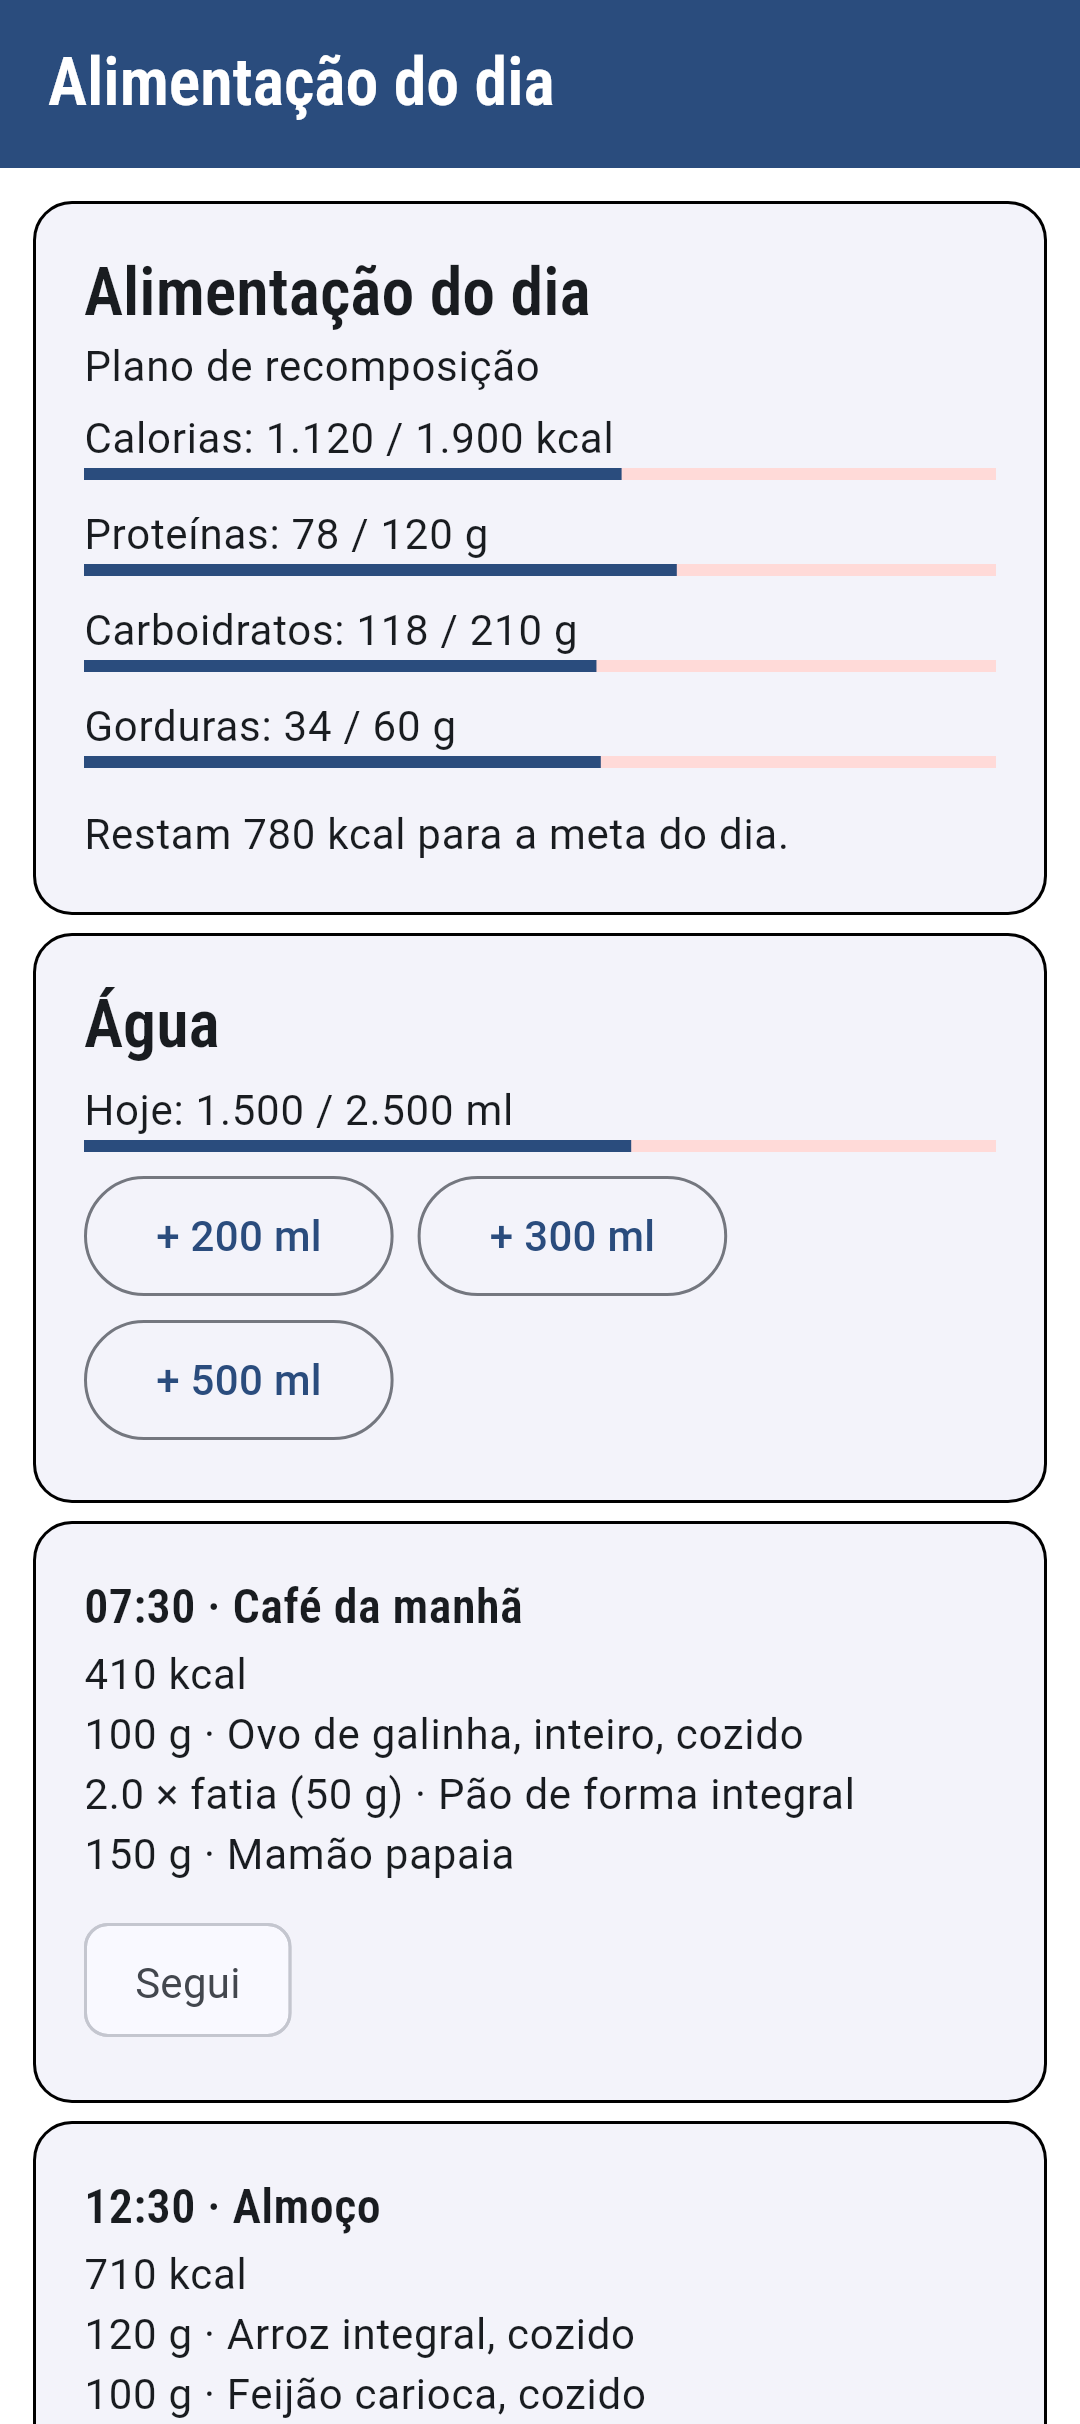
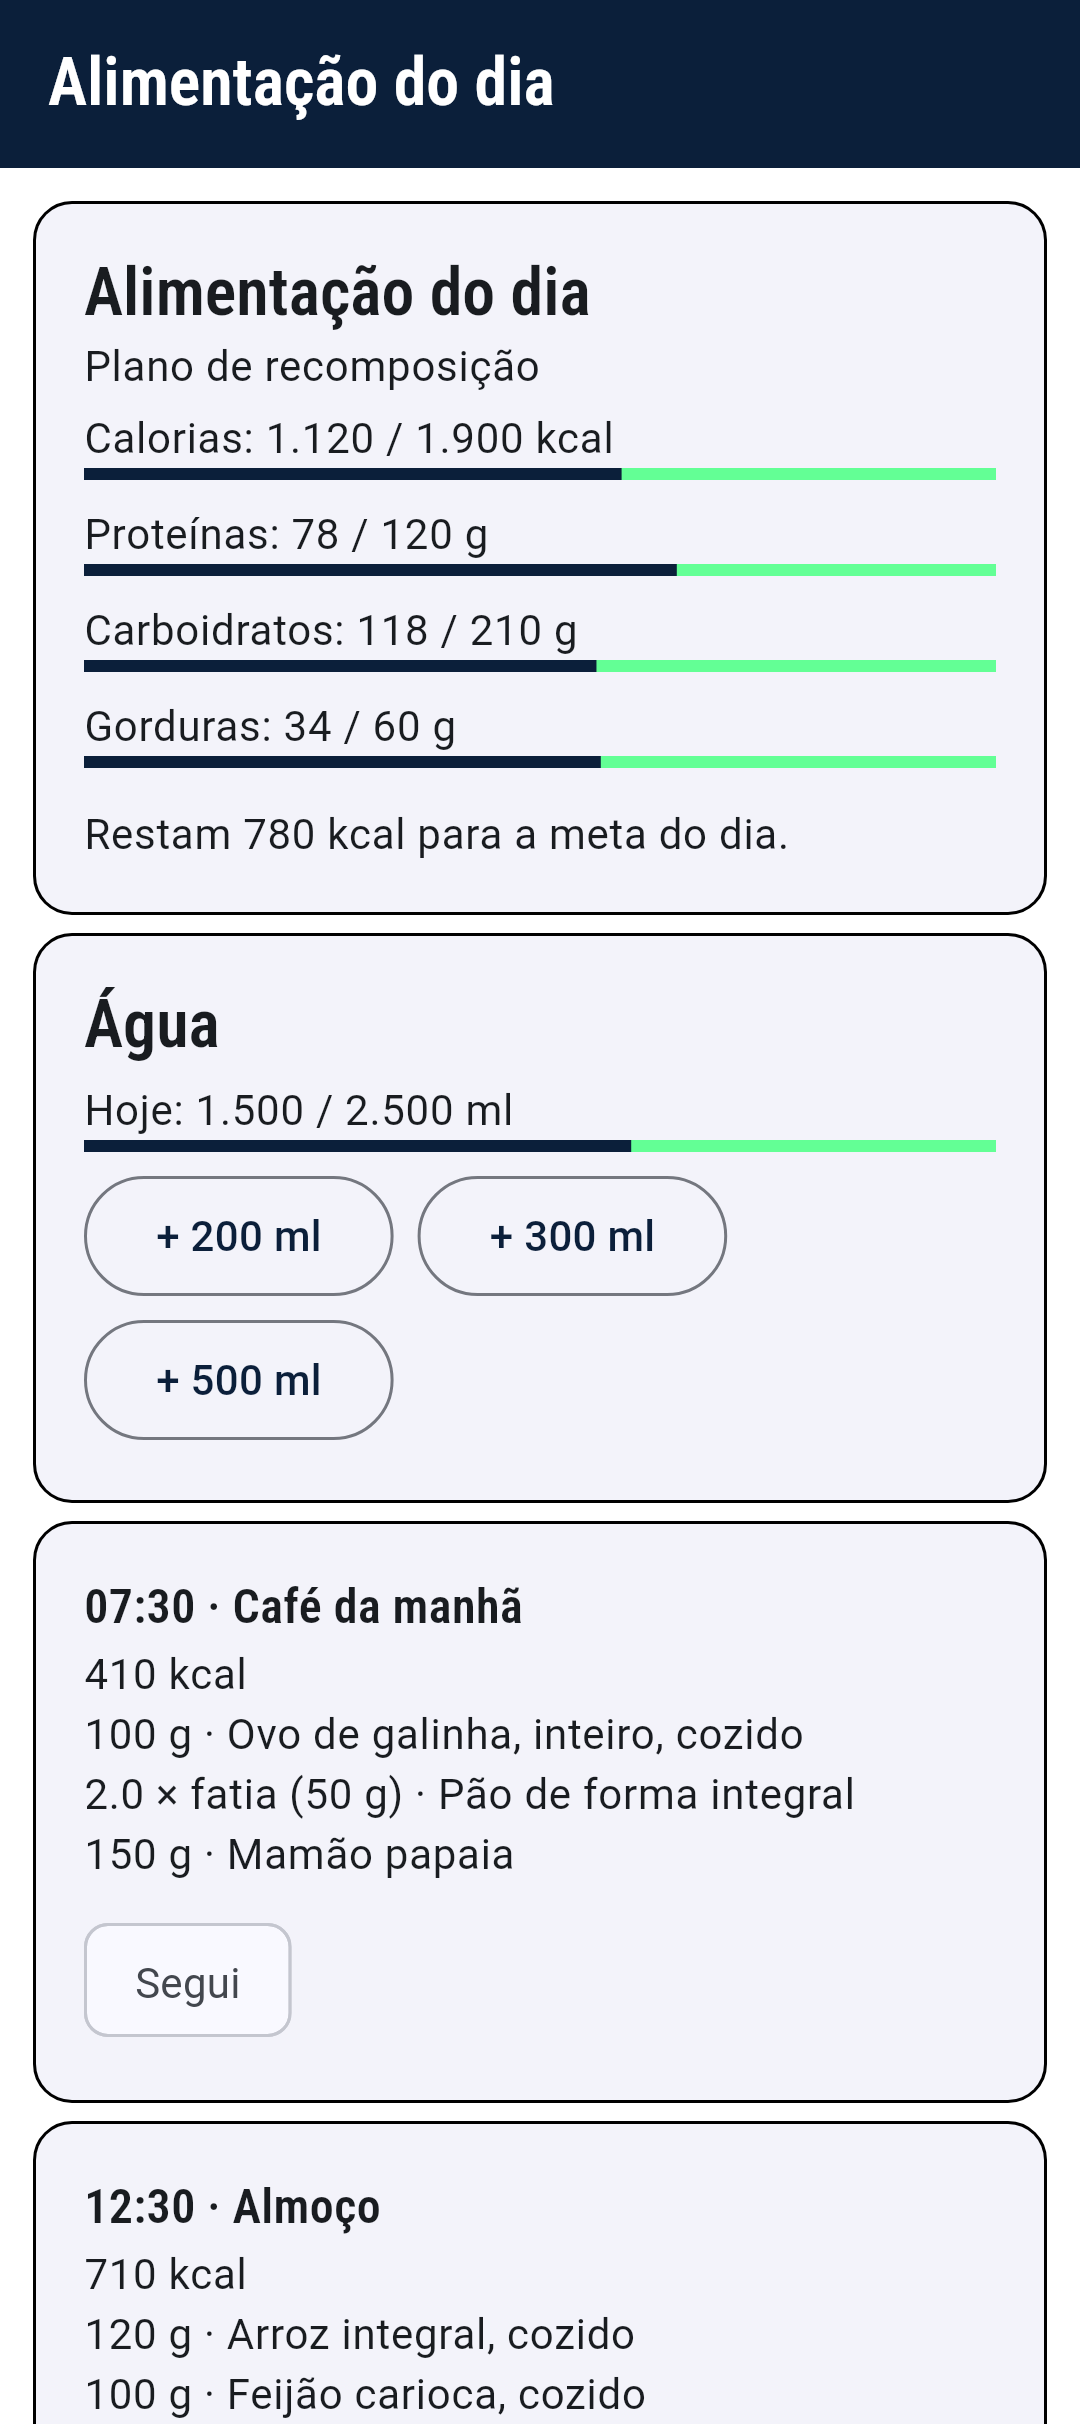
App patch 21: ALMOVA colors in the app theme, screenshots rendered again
Claude-Session: https://claude.ai/code/session_01VRSTuUkoebWWM2DLbPZAvR

diff --git a/extras/flutter-almova/README.md b/extras/flutter-almova/README.md
@@ -93,6 +93,10 @@ git am /caminho/do/wger/extras/flutter-almova/patches/*.patch
     `git am`, copie as de `play-store/` desta pasta por cima dos arquivos de
     `phoneScreenshots/` (ou gere de novo) e faça o commit com o `git lfs`
     instalado.
+19. **Cores do ALMOVA:** o azul-marinho e o verde-neon do site e do ícone no
+    lugar do azul e do vermelho do wger. O verde entra como tom de base: puro,
+    não dá para ler como texto sobre o branco, então o app usa uma variação
+    legível dele (contraste conferido em teste, no tema claro e no escuro).
 
 ## Construir o APK
 
